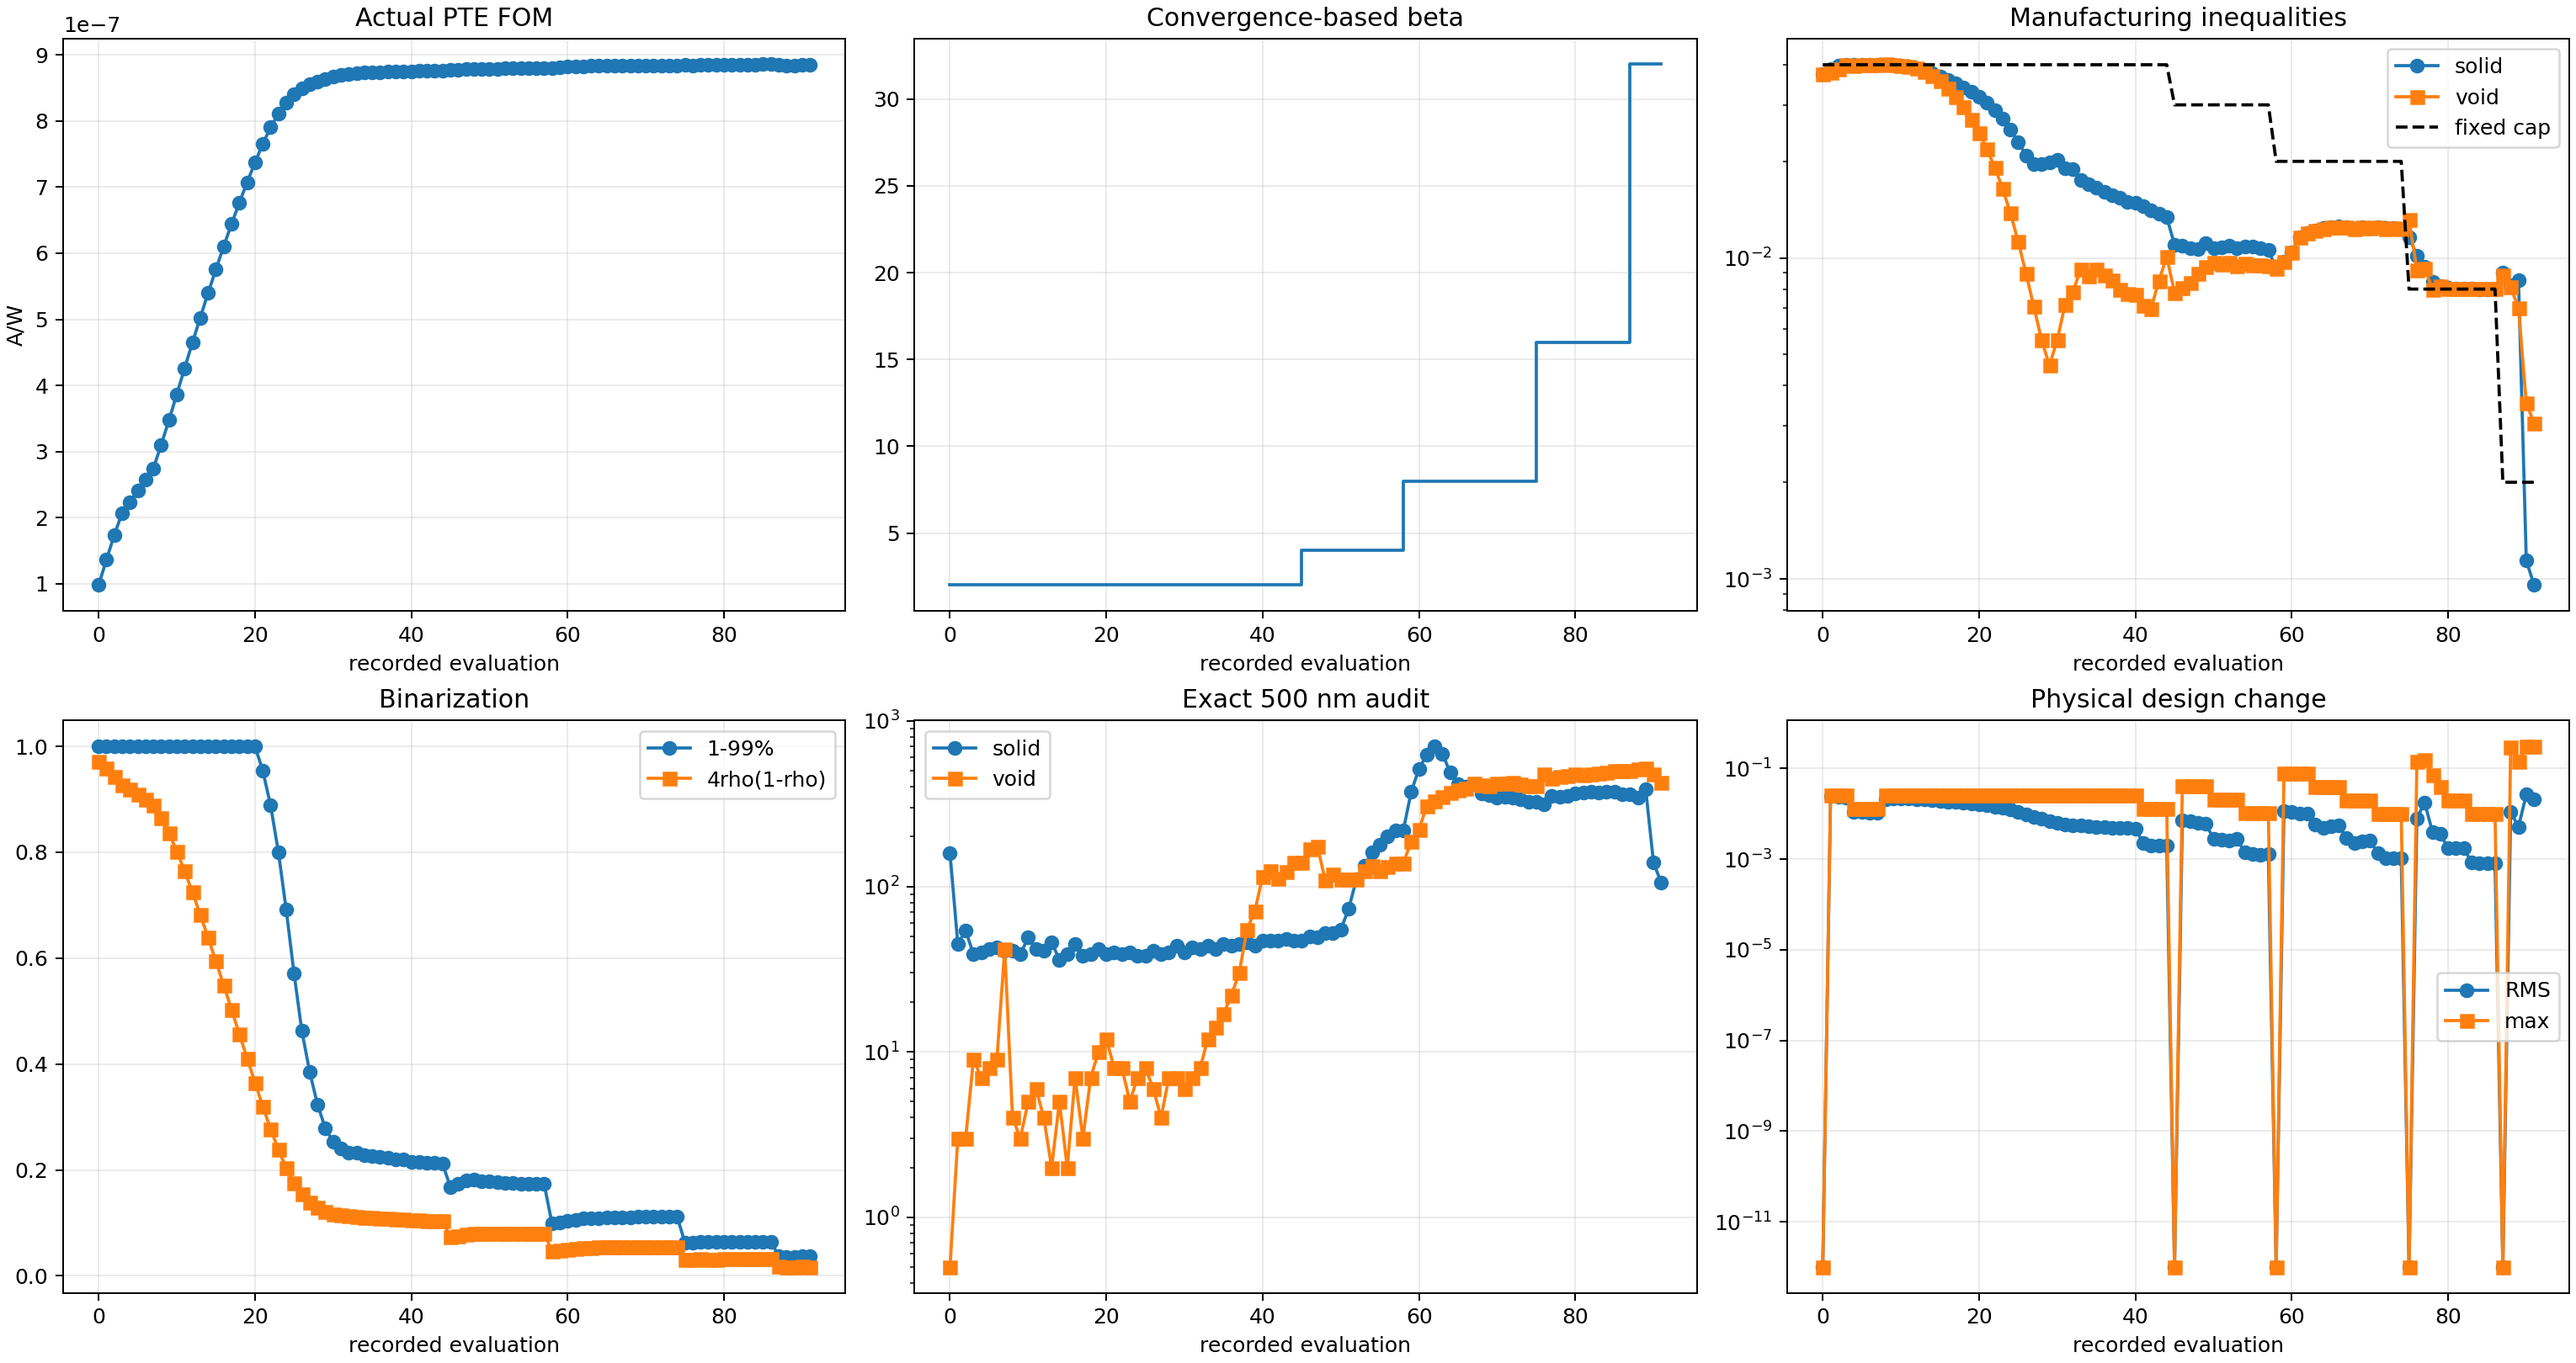
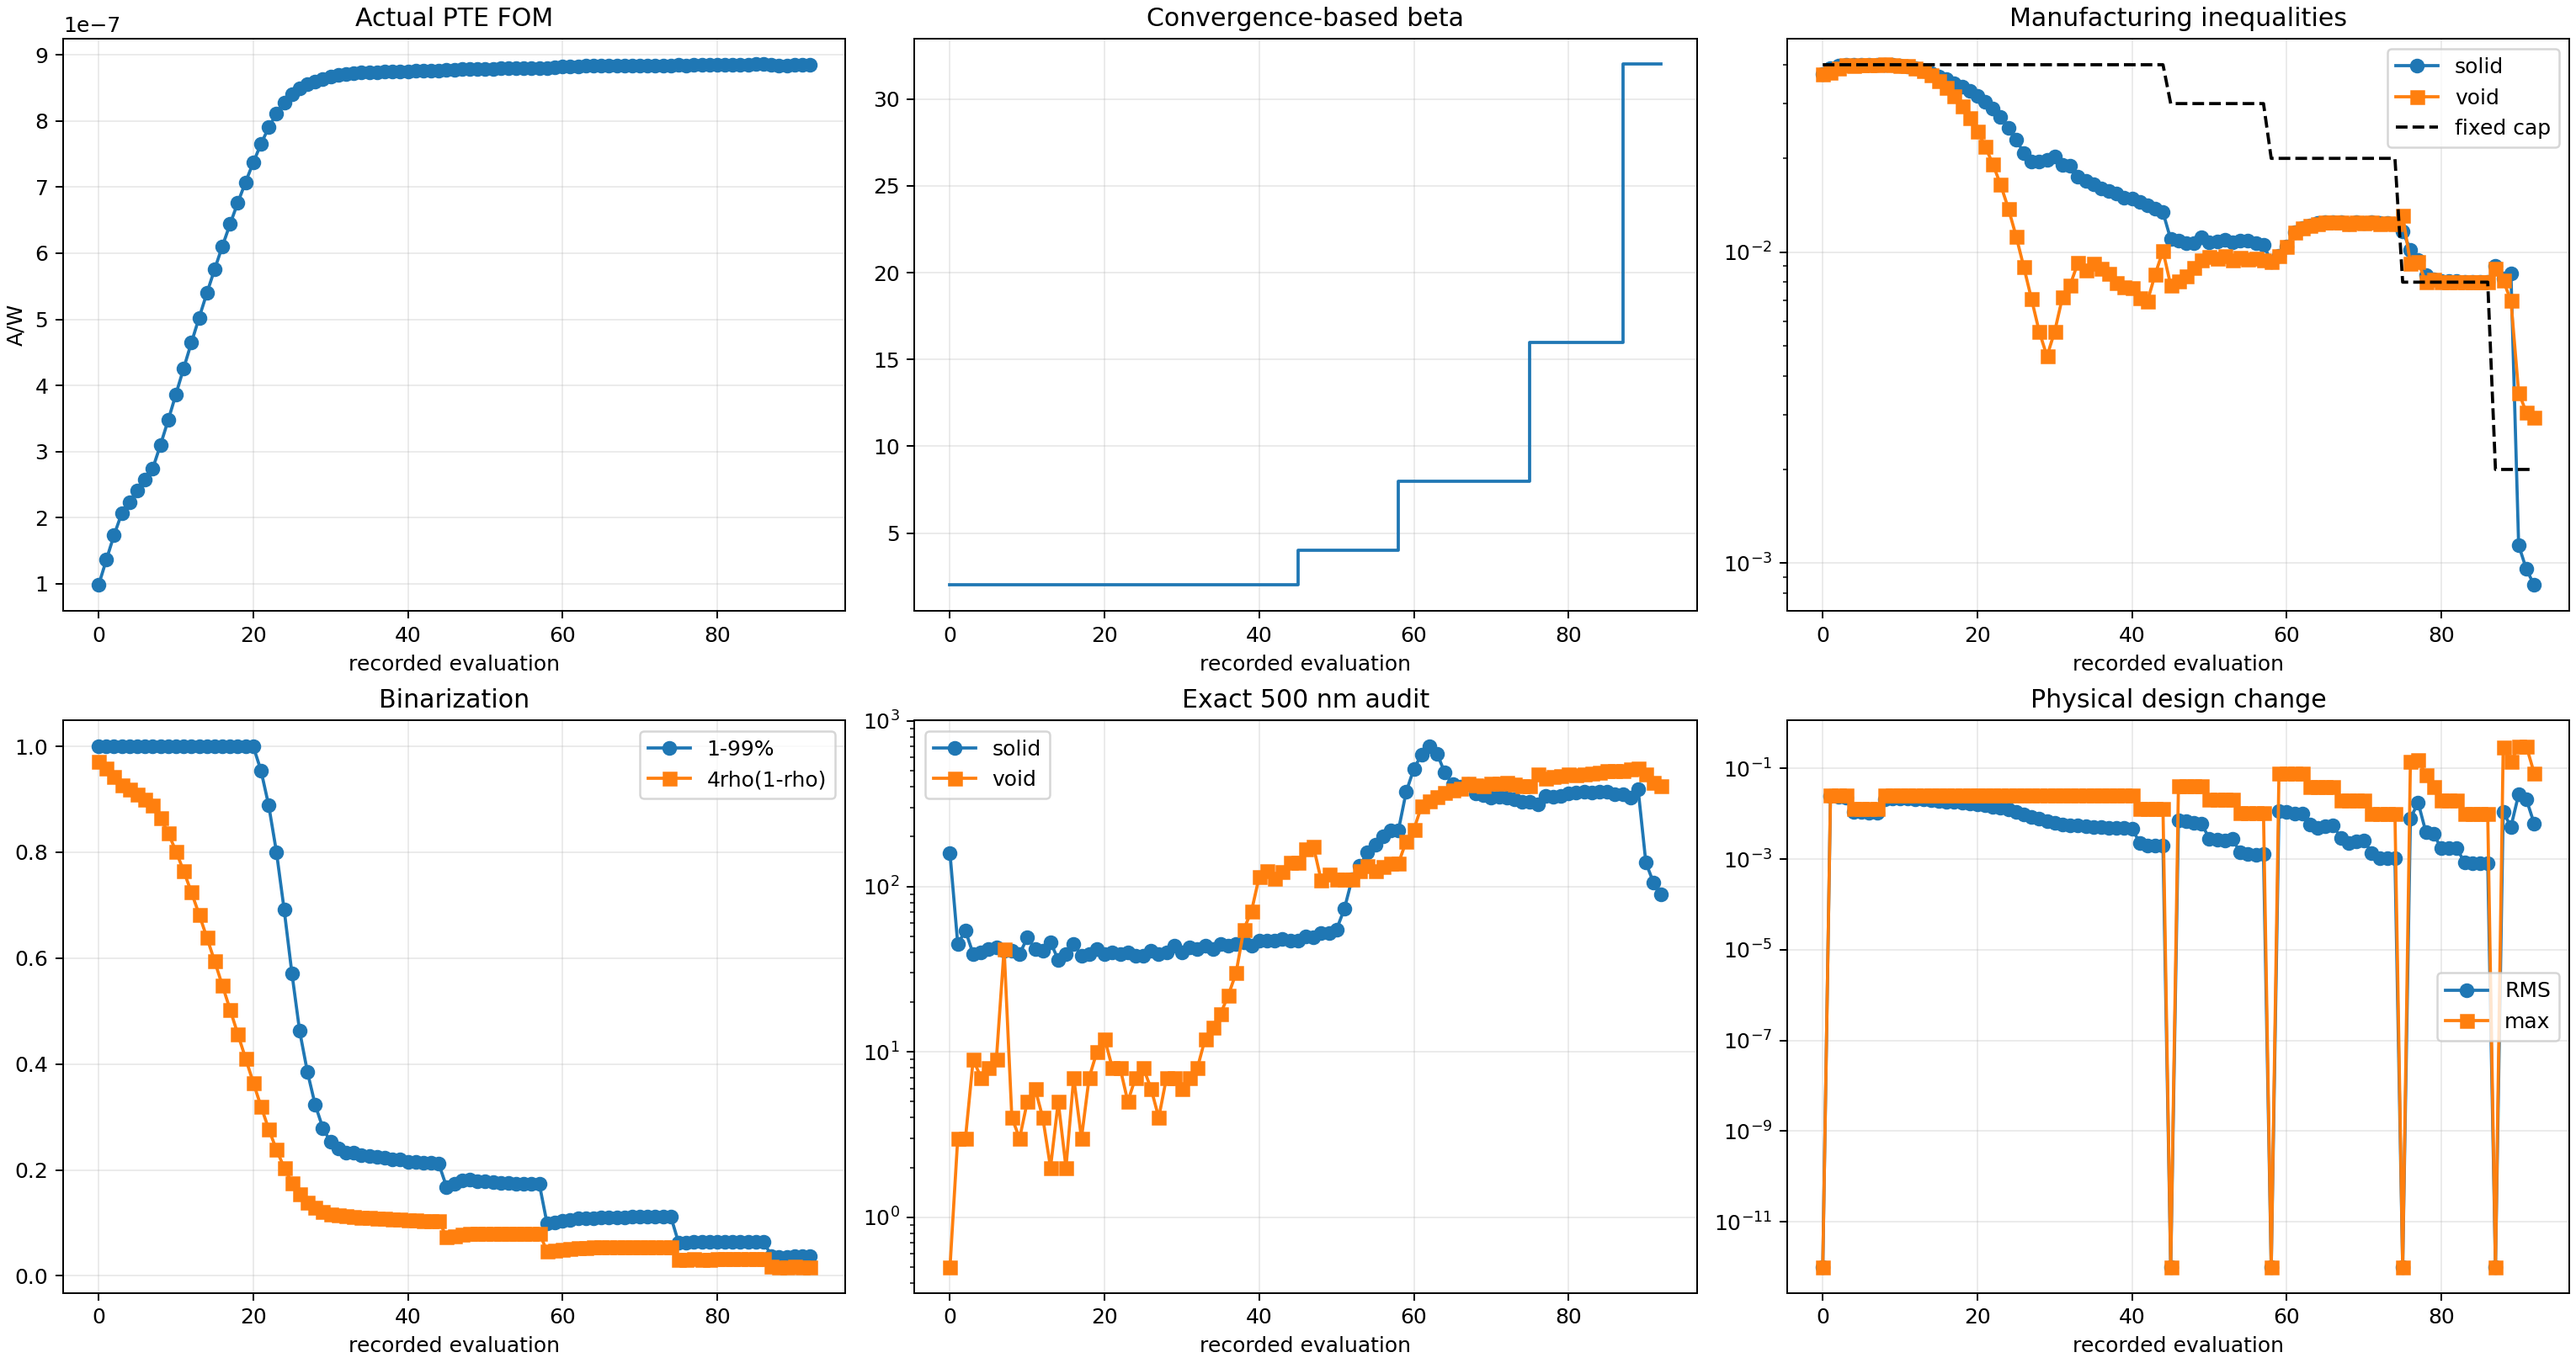
Record Run 003 run003_b032_s005_g088_accepted_mma

diff --git a/photothermal_pte/optimization_runs/run_003_gaussian10_w8p5_current_max_converged/results/OPTIMIZATION_REPORT.md b/photothermal_pte/optimization_runs/run_003_gaussian10_w8p5_current_max_converged/results/OPTIMIZATION_REPORT.md
@@ -2,12 +2,12 @@
 
 Status: `RUNNING_CONVERGENCE_BASED_CONSTRAINED_BETA_CONTINUATION`
 
-Current stage: beta=32, accepted stage iteration=4, global iteration=87.
+Current stage: beta=32, accepted stage iteration=5, global iteration=88.
 
-Constraint contract: `soft_disk_opening_500nm_v2`.
+Constraint contract: `soft_disk_opening_500nm_v3_exact_nonincrease`.
 
-Actual FOM: `8.851899374699e-07 A/W`. Fixed-cap solid/void constraints: `9.563229e-04` / `3.049643e-03` with cap `2.000000e-03`.
+Actual FOM: `8.851442187965e-07 A/W`. Fixed-cap solid/void constraints: `8.494422e-04` / `2.950089e-03` with cap `2.000000e-03`.
 
-Exact 500 nm bad cells: solid `105`, void `425`. Stage convergence: `False` (need at least 8 accepted updates).
+Exact 500 nm bad cells: solid `89`, void `403`. Stage convergence: `False` (need at least 8 accepted updates).
 
 Beta is promoted only after fixed-inequality feasibility and a four-update FOM/design plateau; it is never promoted after one nominal update.
